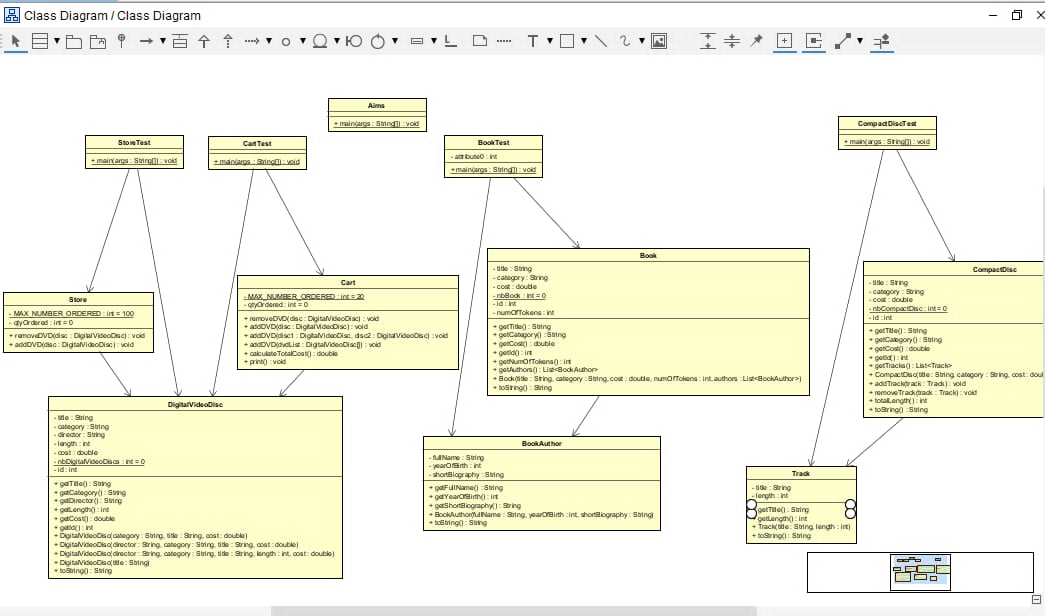
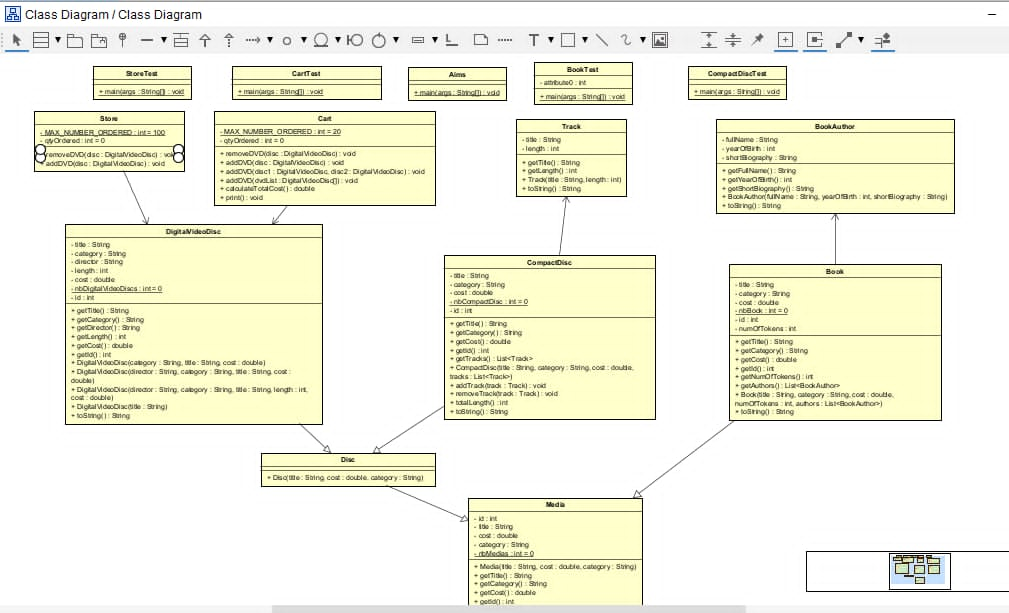
topic/inheritance

diff --git a/AimsProject/src/com/hust/kstn/models/DigitalVideoDisc.java b/AimsProject/src/com/hust/kstn/models/DigitalVideoDisc.java
@@ -1,68 +1,28 @@
 package com.hust.kstn.models;
 
-public class DigitalVideoDisc {
-	private String title;
-	private String category;
+public class DigitalVideoDisc extends Disc {
 	private String director;
 	private int length;
-	private double cost;
-	private static int nbDigitalVideoDiscs=0;
-	private int id;
-	public String getTitle() {
-		return title;
-	}
-	public String getCategory() {
-		return category;
-	}
+	
 	public String getDirector() {
 		return director;
 	}
 	public int getLength() {
 		return length;
 	}
-	public double getCost() {
-		return cost;
-	}
-	public int getId() {
-		return id;
-	}
 	
-	public DigitalVideoDisc(String category , String title , double cost)
-	{
-		this.title=title;
-		this.category=category;
-		this.cost=cost;
-		this.id=++nbDigitalVideoDiscs;
-	}
-	
-	public DigitalVideoDisc(String director , String category , String title , double cost)
-	{
-		this.director=director;
-		this.title=title;
-		this.category=category;
-		this.cost=cost;
-		this.id=++nbDigitalVideoDiscs;
-	}
 	
 	public DigitalVideoDisc(String director , String category , String title , int length , double cost)
 	{
+		super(title,cost,category);
 		this.director=director;
-		this.title=title;
-		this.category=category;
 		this.length=length;
-		this.cost=cost;
-		this.id=++nbDigitalVideoDiscs;
 	}
 	
-	public DigitalVideoDisc(String title)
-	{
-		this.title=title;
-		this.id=++nbDigitalVideoDiscs;
-	}
 	
 	public String toString() {
-		return "- DVD" + "["+this.id+"] - " + "["+this.title+"] - " + "["+this.cost+"] - "
-				       + "["+this.length+"] - " + "["+this.category+"] - " + "["+this.director+"]";
+		return super.toString()
+				       + "["+this.length+"] - " + "["+this.director+"]";
 	}
 	
 	}

diff --git a/AimsProject/src/com/hust/kstn/models/CompactDisc.java b/AimsProject/src/com/hust/kstn/models/CompactDisc.java
@@ -3,30 +3,9 @@ package com.hust.kstn.models;
 import java.util.ArrayList;
 import java.util.List;
 
-public class CompactDisc {
-	private String title;
-	private String category;
-	private double cost;
-	private static int nbCompactDisc=0;
-	private int id;
+public class CompactDisc extends Disc {
+	
 	private List<Track> tracks = new ArrayList<>();
-	
-	public String getTitle() {
-		return title;
-	}
-	
-	public String getCategory() {
-		return category;
-	}
-	
-	public double getCost() {
-		return cost;
-		
-	}
-	public int getId() {
-		return id;
-	}
-	
 	
 	public List<Track> getTracks() {
 	    return new ArrayList<Track>(tracks); 
@@ -34,11 +13,8 @@ public class CompactDisc {
 	
 	public CompactDisc(String title, String category, double cost , List<Track> tracks)
 	{
-		this.title=title;
-		this.category=category;
-		this.cost=cost;
+		super(title, cost, category);
 		this.tracks=new ArrayList<Track>(tracks);
-		this.id=++nbCompactDisc;
 	}
 	
 	public void addTrack(Track track) {
@@ -60,10 +36,7 @@ public class CompactDisc {
 	}
 	
 	public String toString() {
-		 return "CompactDisc[" + this.id + "]["
-		 + this.title + "]["
-		 + this.cost + "]["
-		 + this.category + "]"
+		 return super.toString()
 		 + "\nTracks: " + this.tracks;
 		}
 

diff --git a/AimsProject/src/com/hust/kstn/models/Book.java b/AimsProject/src/com/hust/kstn/models/Book.java
@@ -1,29 +1,9 @@
 package com.hust.kstn.models;
 import java.util.*;
-public class Book {
-	private String title;
-	private String category;
-	private double cost;
-	private static int nbBook=0;
-	private int id;
+public class Book extends Media {
+	
 	private List<BookAuthor> authors = new ArrayList<>();
 	private int numOfTokens;
-	
-	public String getTitle() {
-		return title;
-	}
-	
-	public String getCategory() {
-		return category;
-	}
-	
-	public double getCost() {
-		return cost;
-		
-	}
-	public int getId() {
-		return id;
-	}
 	
 	public int getNumOfTokens()
 	{
@@ -36,20 +16,14 @@ public class Book {
 	
 	public Book(String title, String category, double cost, int numOfTokens, List<BookAuthor> authors)
 	{
-		this.title=title;
-		this.category=category;
-		this.cost=cost;
+		super(title, cost, category);
 		this.numOfTokens=numOfTokens;
 		this.authors=new ArrayList<BookAuthor>(authors);
-		this.id=++nbBook;
 	}
 	
 	public String toString() {
-		 return "Book[" + this.id + "]["
-		 + this.title + "]["
-		 + this.cost + "]["
-		 + this.category + "]["
-		 + this.numOfTokens + "]"
+		 return super.toString()
+		 +"["+ this.numOfTokens + "]"
 		 + "\nAuthors: " + this.authors;
 		}
 }

diff --git a/AimsProject/src/com/hust/kstn/models/Media.java b/AimsProject/src/com/hust/kstn/models/Media.java
@@ -1,0 +1,39 @@
+package com.hust.kstn.models;
+
+public class Media {
+	private int id;
+	 private String title;
+	 private double cost;
+	 private String category;
+	 private static int nbMedias = 0;
+	 
+	 public Media(String title, double cost, String category) {
+		 this.id = nbMedias++;
+		 this.title = title;
+		 this.cost = cost;
+		 this.category = category;
+		 }
+	 public String getTitle() {
+			return title;
+		}
+	 
+	 public String getCategory() {
+			return category;
+		}
+	 
+	 public double getCost() {
+			return cost;
+		}
+	 
+	 public int getId() {
+			return id;
+		}
+		
+	 public String toString() {
+		 return "Media" + "[" + this.id + "]"
+		 + "[" + this.title + "]"
+		 + "[" + this.cost + "]"
+		 + "[" + this.category + "]";
+		}
+
+}

diff --git a/AimsProject/src/com/hust/kstn/models/Disc.java b/AimsProject/src/com/hust/kstn/models/Disc.java
@@ -1,0 +1,9 @@
+package com.hust.kstn.models;
+
+public class Disc extends Media {
+	
+    public Disc(String title, double cost, String category) {
+        super(title, cost, category);
+    }
+    
+}
